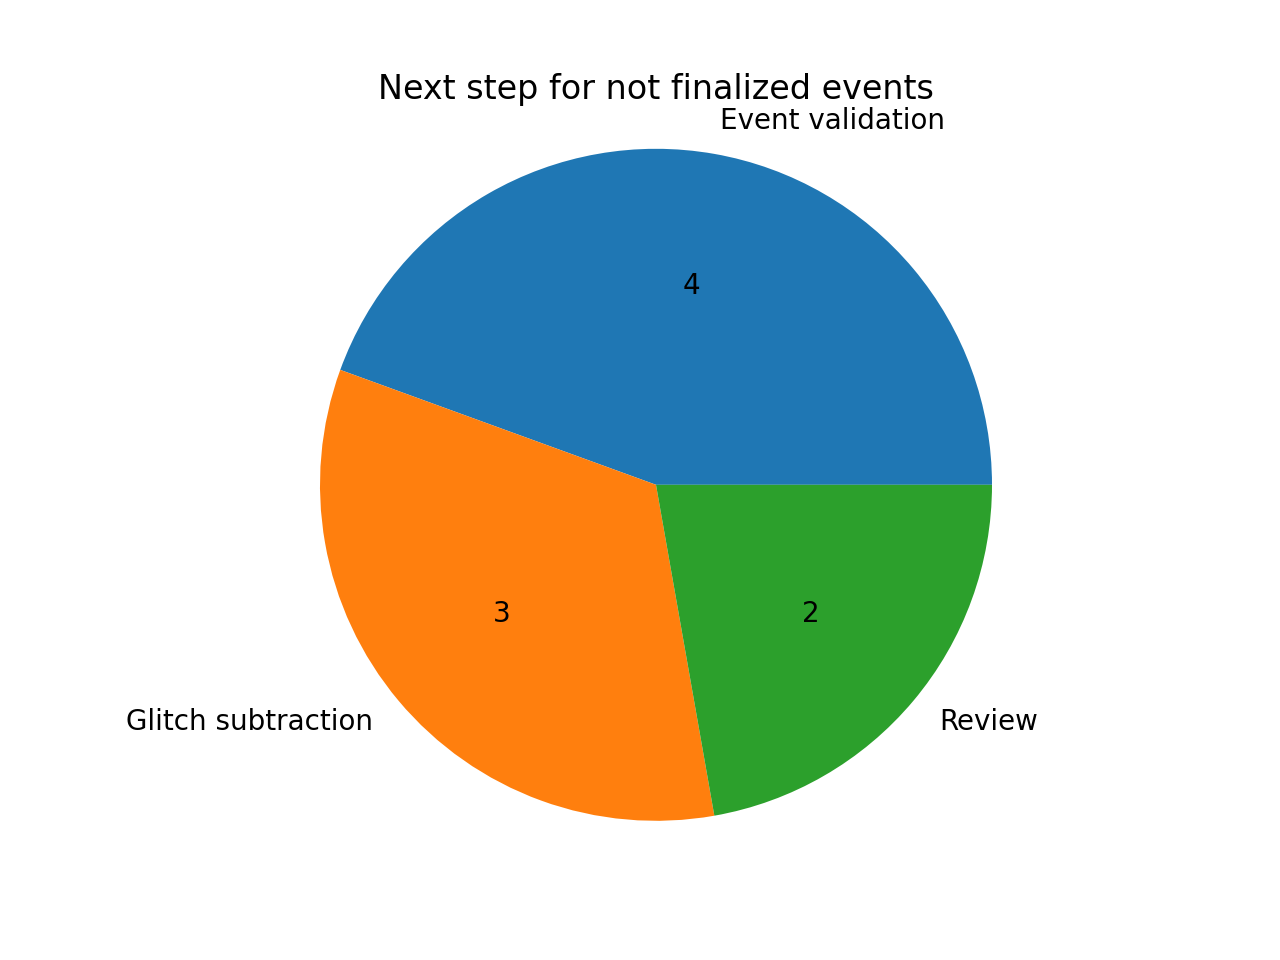
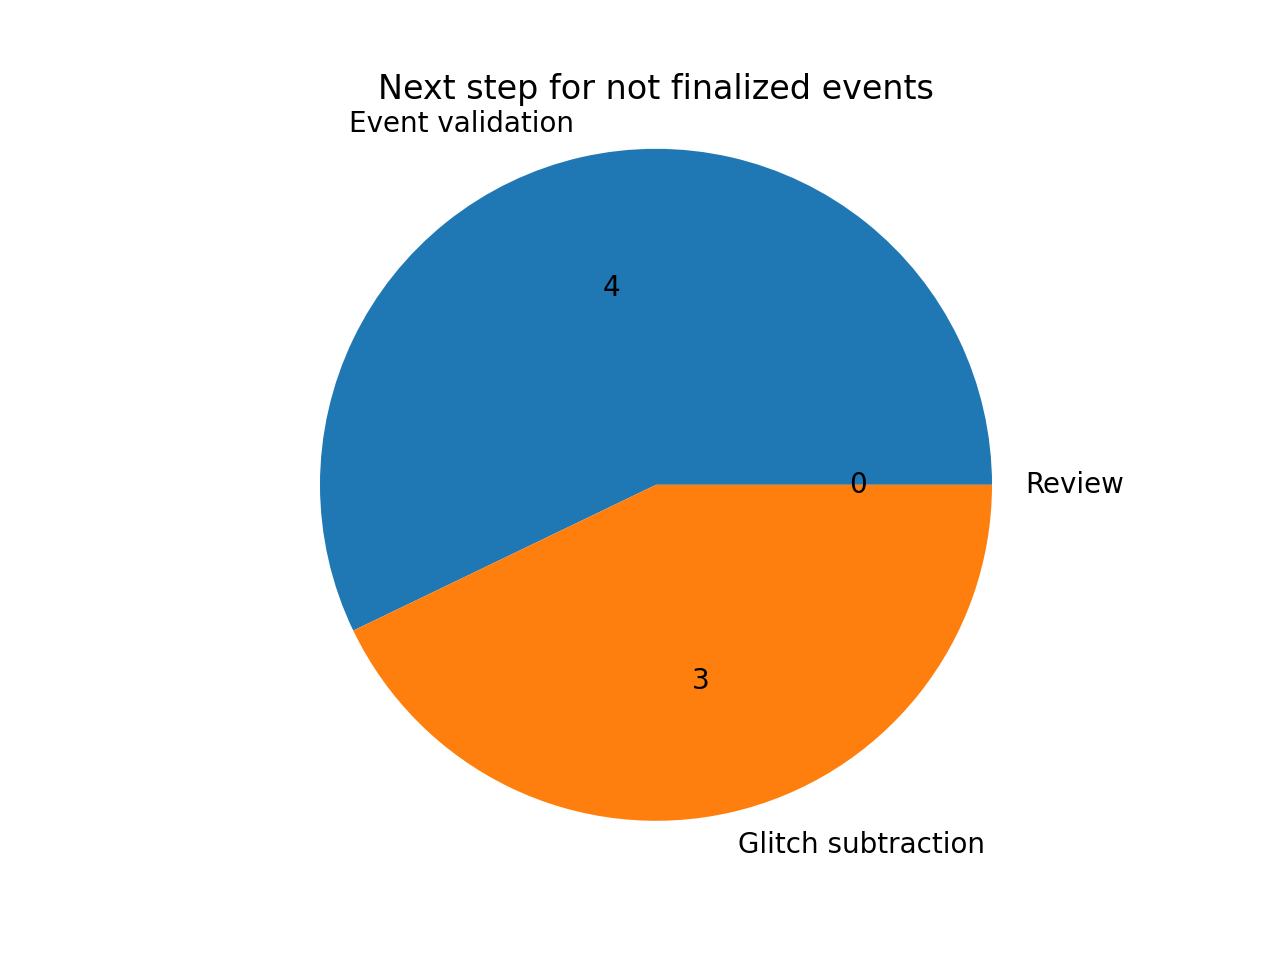
updating events and docs

diff --git a/website/O4a/index.html b/website/O4a/index.html
@@ -995,21 +995,21 @@
 </tr>
 <tr>
 <td align="left">S230811n</td>
-<td align="left">Review (<a href="mailto:laura.nuttall@port.ac.uk">contact</a>)</td>
+<td align="left">None (<a href="mailto:laura.nuttall@port.ac.uk">contact</a>)</td>
 <td align="left">No DQ issues</td>
-<td align="left">Not ready</td>
-<td align="left">N/A</td>
-<td align="left">No</td>
+<td align="left">No DQ issues</td>
+<td align="left">Not required</td>
+<td align="left">Yes</td>
 <td align="left"><a href="https://gracedb.ligo.org//superevents/S230811n">GraceDB</a>, <a href="https://ldas-jobs.ligo.caltech.edu/~detchar/summary/day/20230811">Detectors</a>, <a href="https://ldas-jobs.ligo.caltech.edu/~dqr/o4dqr/online/events/202308/S230811n/">DQR</a>, <a href="https://dqr.ligo.caltech.edu/ev_forms/summary/S230811n">EV</a></td>
 <td align="left"></td>
 </tr>
 <tr>
 <td align="left">S230814r</td>
-<td align="left">Review (<a href="mailto:laura.nuttall@port.ac.uk">contact</a>)</td>
+<td align="left">None (<a href="mailto:laura.nuttall@port.ac.uk">contact</a>)</td>
 <td align="left">No DQ issues</td>
-<td align="left">Not ready</td>
-<td align="left">N/A</td>
-<td align="left">No</td>
+<td align="left">No DQ issues</td>
+<td align="left">Not required</td>
+<td align="left">Yes</td>
 <td align="left"><a href="https://gracedb.ligo.org//superevents/S230814r">GraceDB</a>, <a href="https://ldas-jobs.ligo.caltech.edu/~detchar/summary/day/20230814">Detectors</a>, <a href="https://ldas-jobs.ligo.caltech.edu/~dqr/o4dqr/online/events/202308/S230814r/">DQR</a>, <a href="https://dqr.ligo.caltech.edu/ev_forms/summary/S230814r">EV</a></td>
 <td align="left"></td>
 </tr>
@@ -1041,7 +1041,7 @@
 <td align="left">N/A</td>
 <td align="left">No</td>
 <td align="left"><a href="https://gracedb.ligo.org//superevents/S230820bq">GraceDB</a>, <a href="https://ldas-jobs.ligo.caltech.edu/~detchar/summary/day/20230820">Detectors</a>, <a href="https://ldas-jobs.ligo.caltech.edu/~dqr/o4dqr/online/events/202308/S230820bq/">DQR</a>, <a href="https://dqr.ligo.caltech.edu/ev_forms/summary/S230820bq">EV</a></td>
-<td align="left">nan</td>
+<td align="left"></td>
 </tr>
 </tbody>
 </table>

diff --git a/website/index.html b/website/index.html
@@ -388,7 +388,7 @@
 
 <h1 id="detchar-event-validation">DetChar Event Validation</h1>
 <p>This is the home page for O4 DetChar event validation.
-If you have any questions regarding the event validation, please contact Ronaldas (<a href="mailto:ronaldas.macas@ligo.org">ronaldas.macas@ligo.org</a>) or Sidd (<a href="mailto:siddharth.soni@ligo.org">siddharth.soni@ligo.org</a>).</p>
+If you have any questions regarding the event validation, please contact Sidd (<a href="mailto:siddharth.soni@ligo.org">siddharth.soni@ligo.org</a>) or Francesco (<a href="mailto:f.di-renzo@ip2i.in2p3.fr">f.di-renzo@ip2i.in2p3.fr</a>).</p>
 <p>Sign up <a href="https://docs.google.com/document/d/1KG7r8cv---d1DZ6uqUmnudz8fZ_eBrCXiIMq8UDTfXA/edit#">here</a> for the event validation rota. For more information, see <a href="O4a/">the O4a page</a> or <a href="links/">this page</a> for useful links.</p>
 
 

diff --git a/data/table_O4a.md b/data/table_O4a.md
@@ -38,8 +38,8 @@
 | S230806ak | None ([contact](mailto:laura.nuttall@port.ac.uk))              | No DQ issues            | No DQ issues                               | Not required         | Yes         | [GraceDB](https://gracedb.ligo.org//superevents/S230806ak), [Detectors](https://ldas-jobs.ligo.caltech.edu/~detchar/summary/day/20230806), [DQR](https://ldas-jobs.ligo.caltech.edu/~dqr/o4dqr/online/events/202308/S230806ak/), [EV](https://dqr.ligo.caltech.edu/ev_forms/summary/S230806ak)        |          |
 | S230807f  | None ([contact](mailto:laura.nuttall@port.ac.uk))              | DQ issues               | DQ issues but no noise mitigation required | Not required         | Yes         | [GraceDB](https://gracedb.ligo.org//superevents/S230807f), [Detectors](https://ldas-jobs.ligo.caltech.edu/~detchar/summary/day/20230807), [DQR](https://ldas-jobs.ligo.caltech.edu/~dqr/o4dqr/online/events/202308/S230807f/), [EV](https://dqr.ligo.caltech.edu/ev_forms/summary/S230807f)           |          |
 | S230808i  | Event validation ([contact](mailto:ahelmlin@uoregon.edu))      | Not ready               | Not ready                                  | N/A                  | No          | [GraceDB](https://gracedb.ligo.org//superevents/S230808i), [Detectors](https://ldas-jobs.ligo.caltech.edu/~detchar/summary/day/20230808), [DQR](https://ldas-jobs.ligo.caltech.edu/~dqr/o4dqr/online/events/202308/S230808i/), [EV](https://dqr.ligo.caltech.edu/ev_forms/summary/S230808i)           |          |
-| S230811n  | Review ([contact](mailto:laura.nuttall@port.ac.uk))            | No DQ issues            | Not ready                                  | N/A                  | No          | [GraceDB](https://gracedb.ligo.org//superevents/S230811n), [Detectors](https://ldas-jobs.ligo.caltech.edu/~detchar/summary/day/20230811), [DQR](https://ldas-jobs.ligo.caltech.edu/~dqr/o4dqr/online/events/202308/S230811n/), [EV](https://dqr.ligo.caltech.edu/ev_forms/summary/S230811n)           |          |
-| S230814r  | Review ([contact](mailto:laura.nuttall@port.ac.uk))            | No DQ issues            | Not ready                                  | N/A                  | No          | [GraceDB](https://gracedb.ligo.org//superevents/S230814r), [Detectors](https://ldas-jobs.ligo.caltech.edu/~detchar/summary/day/20230814), [DQR](https://ldas-jobs.ligo.caltech.edu/~dqr/o4dqr/online/events/202308/S230814r/), [EV](https://dqr.ligo.caltech.edu/ev_forms/summary/S230814r)           |          |
+| S230811n  | None ([contact](mailto:laura.nuttall@port.ac.uk))              | No DQ issues            | No DQ issues                               | Not required         | Yes         | [GraceDB](https://gracedb.ligo.org//superevents/S230811n), [Detectors](https://ldas-jobs.ligo.caltech.edu/~detchar/summary/day/20230811), [DQR](https://ldas-jobs.ligo.caltech.edu/~dqr/o4dqr/online/events/202308/S230811n/), [EV](https://dqr.ligo.caltech.edu/ev_forms/summary/S230811n)           |          |
+| S230814r  | None ([contact](mailto:laura.nuttall@port.ac.uk))              | No DQ issues            | No DQ issues                               | Not required         | Yes         | [GraceDB](https://gracedb.ligo.org//superevents/S230814r), [Detectors](https://ldas-jobs.ligo.caltech.edu/~detchar/summary/day/20230814), [DQR](https://ldas-jobs.ligo.caltech.edu/~dqr/o4dqr/online/events/202308/S230814r/), [EV](https://dqr.ligo.caltech.edu/ev_forms/summary/S230814r)           |          |
 | S230814ah | Event validation ([contact](mailto:alan.weinstein@ligo.org))   | Not ready               | Not ready                                  | N/A                  | No          | [GraceDB](https://gracedb.ligo.org//superevents/S230814ah), [Detectors](https://ldas-jobs.ligo.caltech.edu/~detchar/summary/day/20230814), [DQR](https://ldas-jobs.ligo.caltech.edu/~dqr/o4dqr/online/events/202308/S230814ah/), [EV](https://dqr.ligo.caltech.edu/ev_forms/summary/S230814ah)        |          |
 | S230819ax | Event validation ([contact](mailto:sudhagar@camk.edu.pl))      | Not ready               | Not ready                                  | N/A                  | No          | [GraceDB](https://gracedb.ligo.org//superevents/S230819ax), [Detectors](https://ldas-jobs.ligo.caltech.edu/~detchar/summary/day/20230819), [DQR](https://ldas-jobs.ligo.caltech.edu/~dqr/o4dqr/online/events/202308/S230819ax/), [EV](https://dqr.ligo.caltech.edu/ev_forms/summary/S230819ax)        |          |
-| S230820bq | Event validation ([contact](mailto:sudhagar@camk.edu.pl))      | Not ready               | Not ready                                  | N/A                  | No          | [GraceDB](https://gracedb.ligo.org//superevents/S230820bq), [Detectors](https://ldas-jobs.ligo.caltech.edu/~detchar/summary/day/20230820), [DQR](https://ldas-jobs.ligo.caltech.edu/~dqr/o4dqr/online/events/202308/S230820bq/), [EV](https://dqr.ligo.caltech.edu/ev_forms/summary/S230820bq)        | nan      |
+| S230820bq | Event validation ([contact](mailto:sudhagar@camk.edu.pl))      | Not ready               | Not ready                                  | N/A                  | No          | [GraceDB](https://gracedb.ligo.org//superevents/S230820bq), [Detectors](https://ldas-jobs.ligo.caltech.edu/~detchar/summary/day/20230820), [DQR](https://ldas-jobs.ligo.caltech.edu/~dqr/o4dqr/online/events/202308/S230820bq/), [EV](https://dqr.ligo.caltech.edu/ev_forms/summary/S230820bq)        |          |
